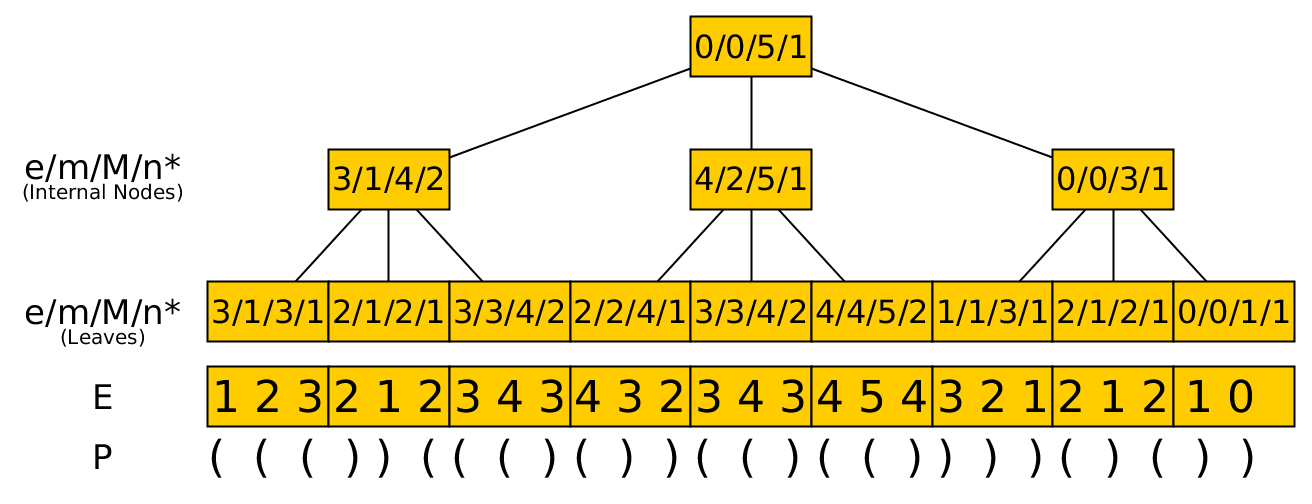
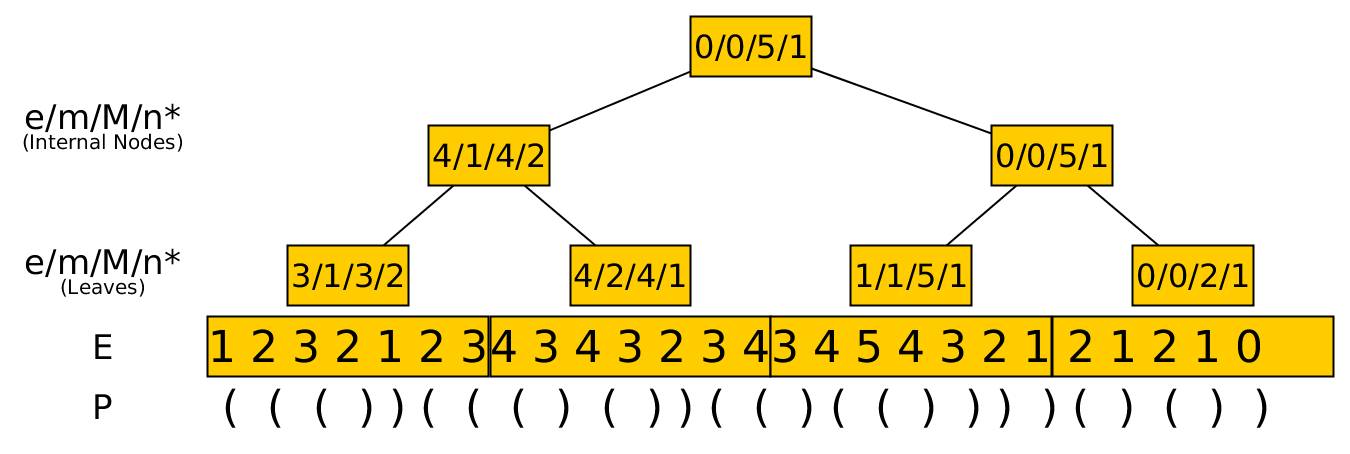
RMMT figure edited, reducing space in section 2

diff --git a/tex/suctrees.tex b/tex/suctrees.tex
@@ -67,9 +67,8 @@ following, where $g$ is an arbitrary function on $\{0,1\}$:
 Most operations supported by the NS-representation reduce to these primitives
 by choosing $g$ to be one of the following three functions on $\{0,1\}$:
 \begin{align*}
-  \pi  &: 1 \mapsto 1\quad 0 \mapsto -1\\
-  \phi &: 1 \mapsto 1\quad 0 \mapsto 0\\
-  \psi &: 1 \mapsto 0\quad 0 \mapsto 1
+\pi : 1 &\mapsto 1 &\phi : 1 &\mapsto 1 & \psi : 1 &\mapsto 0\\
+0 &\mapsto -1 & 0 &\mapsto 0 & 0 &\mapsto 1
 \end{align*}
 For example, assuming the $i$th parenthesis in $P$ is an opening parenthesis,
 the matching closing parenthesis can be found using $\fwdsearch(P,\pi,i,0)$.
@@ -99,8 +98,7 @@ Navarro/Sadakane as a simple practical structure), we partition $P[1..2n]$ into
 disjoint chunks of size $s = w \lg n$, where $w$ is the machine word size.
 For simplicity, we assume that the length of $P$ is a multiple of~$s$.
 The {\tt RMMT} is a complete binary tree over the sequence of chunks
-(see Figure~\ref{fig:RangeMinMaxTree}).\Norbert{Should fix figure to match this
-description.}
+(see Figure~\ref{fig:RangeMinMaxTree}).
 Each node $u$ of the {\tt RMMT} represents a subsequence $P_u$ of $P$ that is
 the concatenation of the chunks corresponding to the descendant leaves of $u$.
 Since the {\tt RMMT} is a complete tree, we do not need store its structure
@@ -119,9 +117,9 @@ $P_u$, respectively.
 $n'[i]$ stores the number of positions in $P_u$ that have the minimum excess
 value $m'[i]$.
 
-\begin{figure}[b]
+\begin{figure}[t]
   \centering
-  \includegraphics[scale=0.18]{./images/Range-min-max-tree.png}
+  \includegraphics[scale=0.19]{./images/Range-min-max-tree.png}
   \caption{Range min-max tree}
   \label{fig:RangeMinMaxTree}
 \end{figure}
@@ -157,7 +155,8 @@ $O(\lg n)$ time to determine the position of the query answer inside this leaf's
 chunk.
 Since we spend $O(\lg n)$ time for each of the two leaves inspected by this
 procedure and the tests for any other node in the tree take constant time,
-the total cost of this procedure is $O(\lg n)$.
+the cost is $O(\lg n)$.
+%the total cost of this procedure is $O(\lg n)$.
 
 Supporting operations on the leaves, such as finding the $i$th leaf from the
 left, reduces to $\rankop$ and $\selop$ operations over another bit vector
@@ -165,9 +164,9 @@ $P_1[1..2n]$ where $P_1[i] = 1$ iff $P[i] = 1$ and $P[i+1] = 0$.
 $\rankop$ and $\selop$ operations over $P_1$ in turn reduce to
 $\sumop$ and $\fwdsearch$ operations over $P_1$ and can thus be supported
 by an {\tt RMMT} for $P_1$.
-Note that $P_1$ does not need to be stored explicitly (but its {\tt RMMT} does)
-because $O(w)$ bits of $P_1$ can be computed from $P$ in constant time using
-table lookup.
+Note that $P_1$ does not need to be stored explicitly
+because $O(w)$ bits of $P_1$ can be computed from $P$ %in constant time 
+using table lookup.
 
 To analyze the space usage, observe that storing $P$ requires $2n$ bits, while
 the space needed to store the vectors $e'$, $m'$, $M'$, and $n'$ is

diff --git a/tex/dym.tex b/tex/dym.tex
@@ -8,9 +8,7 @@ In this model, a {\em multithreaded computation} is modelled as a directed
 acyclic graph (DAG) $G=(V,E)$ where the set of vertices $V$ are instructions
 and $(u,v) \in E$ if $u$ must be executed before $v$.\footnote{Notice that the
   RAM model is a subset of the DYM model where the outdegree of every
-  vertex $v \in V$ is $\leq 1$.\Norbert{Why ``$\le$''?  Doesn't the strictly
-    sequential nature of the RAM model mean that everybody except the first and
-    last vertices has exactly one in-neighbour and one out-neighbour?}}
+  vertex $v \in V$ is $1$, except the last vertex with outdegree $0$.}
 The time $T_p$ needed to execute the computation on $p$ processors depends on
 two parameters of the computation: its {\em work} $T_1$ and its {\em span}
 $T_\infty$.
@@ -32,12 +30,12 @@ The degree to which an algorithm can take advantage of the presence of $p > 1$
 processors is captured by its {\em speed-up} $T_1 / T_p$ and its
 {\em parallelism} $T_1 / T_\infty$.
 In the absence of cache effects, the best speed-up one can hope for is $p$,
-also known as {\em linear speed-up}.
+known as {\em linear speed-up}.
 The parallelism provides an upper bound on the achievable speed-up independent
 of the number of available processors.
 
 In order to describe parallel algorithms in the DYM model, we augment sequential
-pseudocode with three special keywords.
+pseudocode with three keywords.
 The {\bf spawn} keyword, followed by a procedure call, indicates that the
 procedure should run in its own thread and {\em may} thus be executed in
 parallel to the thread that spawned the procedure call.
@@ -51,8 +49,8 @@ In practice, the overhead is logarithmic in the number of iterations.
 If a procedure exits, either implicitly or explicitly using a {\bf return}
 statement, it implicitly performs a {\bf sync} to ensure all threads it spawned
 finish first.
-\Norbert{Got rid of the ``strand'' stuff.
-  It seems a technicality relevant only to the operation of work-stealing
-  schedulers.
-  If we actually use it in the analysis of the algorithm in Section 3, we
-  may have to bring it back.}
+%\Norbert{Got rid of the ``strand'' stuff.
+%  It seems a technicality relevant only to the operation of work-stealing
+%  schedulers.
+%  If we actually use it in the analysis of the algorithm in Section 3, we
+%  may have to bring it back.}

diff --git a/tex/sea2015.tex b/tex/sea2015.tex
@@ -2,9 +2,9 @@
 %
 %                          TARGET    CURRENT
 %
-% Abstract + Introduction  2         2
-% Preliminaries            3         5 1/3
-% Algorithm description    4         7
+% Abstract + Introduction  2         1 3/4
+% Preliminaries            3         3 3/4
+% Algorithm description    4         6
 % Experiments              2 1/2     3
 % Conclusions              1/3       1/2
 
